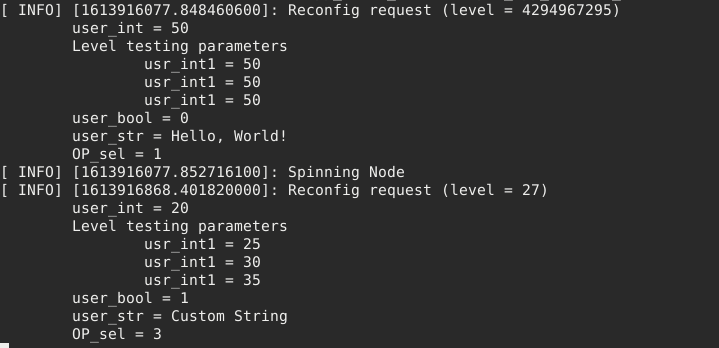
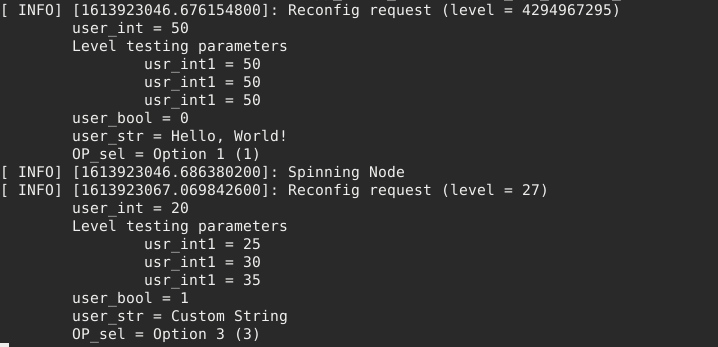
[IGNORE] Added minor changes to code and doc for FirstDR Server

diff --git a/src/cpp_basic_nodes/src/simple_FirstDR_server.cpp b/src/cpp_basic_nodes/src/simple_FirstDR_server.cpp
@@ -32,7 +32,22 @@ using namespace std;
  *  - config: The configuration object. Different paraemters are members of this object.
  *  - level: The level which is the OR of the levels of changed parameters
  */
-void callback_function(cpp_basic_nodes::FirstDRConfig &config, uint32_t level) {    
+void callback_function(cpp_basic_nodes::FirstDRConfig &config, uint32_t level) {
+    string OP_sel_str;  // String for parameter OP_sel
+    switch(config.OP_sel) {
+        case cpp_basic_nodes::FirstDR_OP_1:
+            OP_sel_str = "Option 1";
+            break;
+        case cpp_basic_nodes::FirstDR_OP_2:
+            OP_sel_str = "Option 2";
+            break;
+        case cpp_basic_nodes::FirstDR_OP_3:
+            OP_sel_str = "Option 3";
+            break;
+        default:
+            OP_sel_str = "Invalid selection";
+            break;
+    }
     ROS_INFO_STREAM(
         "Reconfig request (level = " << level << ")" << endl
         << "\t" << "user_int = " << config.user_int << endl
@@ -42,7 +57,7 @@ void callback_function(cpp_basic_nodes::FirstDRConfig &config, uint32_t level) {
         << "\t\t" << "usr_int1 = " << config.usr_int3 << endl
         << "\t" << "user_bool = " << config.user_bool << endl
         << "\t" << "user_str = " << config.user_str << endl
-        << "\t" << "OP_sel = " << config.OP_sel
+        << "\t" << "OP_sel = " << OP_sel_str << " (" << config.OP_sel << ")"
     );
 }
 
